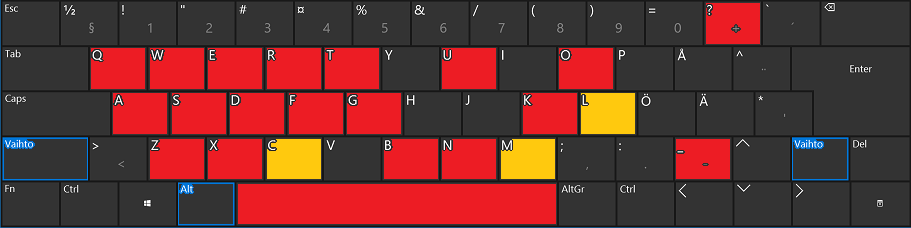
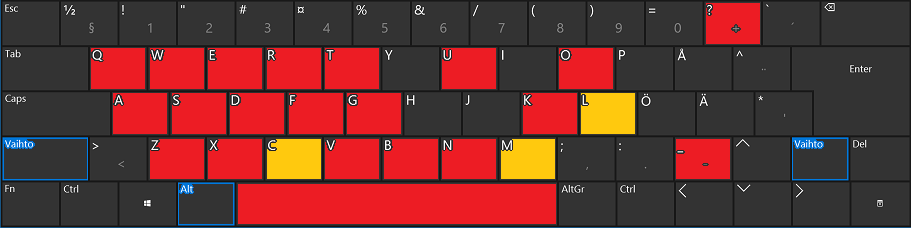
Allows upscaling.

Changed region(s): [[0.3381, 0.5833, 0.4303, 0.7982]]

diff --git a/frame.cpp b/frame.cpp
@@ -1,7 +1,7 @@
 #include "frame.h"
 #include "AppIcon.xpm"
 
-const wxString Peili::APP_VER = "2016.11.20";
+const wxString Peili::APP_VER = "2016.12.14";
 const wxString Peili::HOT_KEYS = "Shortcuts\nLMBx2 = Full screen\nMMB = Exit app\nRMB = Remove duplicates"
 "\nA = Previous file\nD = Next file\nE = Next random file\nS = Pause show\nW = Continue show"
 "\nSPACE = Show current file in folder\nB = Show status bar\nC = Count LMB clicks\nL = Change screenplay"
@@ -11,7 +11,7 @@ std::list<Nouto>::iterator fetch;
 std::mt19937 rng, rngk;
 std::unique_ptr<wxZipEntry> entry;
 int last_x1, last_y1, last_x2, last_y2, loading_pixs;
-bool filter_by_time, filter_by_size, filter_by_name, unzipping, rip_zip, gg_zip;
+bool filter_by_time, filter_by_size, filter_by_name, unzipping, rip_zip, gg_zip, upscale, queuing;
 uint64_t recent_depth = 14;
 wxString zip_name, trash, entry_name, unpack;
 wxBitmap unzipped;
@@ -154,7 +154,7 @@ void Peili::load_pix(wxTimerEvent &event)
 void Peili::draw_pixs(wxPaintEvent &event)
 {
     wxBufferedPaintDC dc(mirror);
-    if(clean_mirror)
+    if(clean_mirror && !queuing)
     {
         dc.SetBackground(*wxBLACK_BRUSH);
         dc.Clear();
@@ -169,6 +169,7 @@ void Peili::draw_pixs(wxPaintEvent &event)
             dc.SetBackgroundMode(wxPENSTYLE_SOLID);
             dc.DrawText(zip_name, 2, 2);
             dc.DrawText(entry_name, 2, 20);
+            queuing = false;
         }
         if(rip_zip)
         {
@@ -268,6 +269,7 @@ void Peili::keyboard(wxKeyEvent &event)
         {
             if(unzipping)
             {
+                if(queuing) return;
                 unzip_image(--cur_entry);
             }
             else
@@ -282,6 +284,7 @@ void Peili::keyboard(wxKeyEvent &event)
         {
             if(unzipping)
             {
+                if(queuing) return;
                 unzip_image(++cur_entry);
             }
             else
@@ -295,6 +298,7 @@ void Peili::keyboard(wxKeyEvent &event)
         {
             if(unzipping)
             {
+                if(queuing) return;
                 if(zip_list)
                 {
                     if(zip_list->GetCount())
@@ -322,6 +326,7 @@ void Peili::keyboard(wxKeyEvent &event)
         {
             if(unzipping)
             {
+                if(queuing) return;
                 if(zip_list)
                 {
                     if(zip_list->GetCount())
@@ -348,6 +353,7 @@ void Peili::keyboard(wxKeyEvent &event)
         {
             if(unzipping)
             {
+                if(queuing) return;
                 unzip_image(-1);
             }
             else
@@ -427,19 +433,7 @@ void Peili::keyboard(wxKeyEvent &event)
         }
         case 'X': // Delete ZIP file.
         {
-            if(!trash)
-            {
-                wxDirDialog dialog(this, "Choose folder for trash");
-                if(dialog.ShowModal() == wxID_OK)
-                {
-                    trash = dialog.GetPath() + "\\";
-                    wxFileConfig settings("Kuvastin", "Tapsa");
-                    settings.Write("Trash", trash);
-                }
-                else return;
-            }
-            rip_zip = true;
-            wxRenameFile(zips[cur_zip], trash + zips[cur_zip].AfterLast('\\'), false);
+            remove_zip();
             next_entry();
             return;
         }
@@ -501,6 +495,17 @@ void Peili::keyboard(wxKeyEvent &event)
             }
             else return;
         }
+        case 'V':
+        {
+            upscale = !upscale;
+            if(unzipping)
+            {
+                unzip_image(cur_entry);
+                return;
+            }
+            load_image();
+            break;
+        }
         case 'U':
         {
             zip_list = new wxListBox(panel, wxID_ANY, wxDefaultPosition, wxSize(200, -1));
@@ -509,6 +514,7 @@ void Peili::keyboard(wxKeyEvent &event)
 
             wxFileConfig settings("Kuvastin", "Tapsa");
             settings.Read("Trash", &trash);
+            settings.Read("Unpack", &unpack);
             wxFlexGridSizer *options_grid = new wxFlexGridSizer(2);
             wxStaticText *label1 = new wxStaticText(panel, wxID_ANY, " Path to zips ");
             wxDirPickerCtrl *path2zips = new wxDirPickerCtrl(panel, wxID_ANY, settings.Read("Path2zips", ""));
@@ -574,6 +580,7 @@ void Peili::keyboard(wxKeyEvent &event)
             zip_list->Bind(wxEVT_LISTBOX, [=](wxCommandEvent &event)
             {
                 cur_zip = event.GetSelection();
+                // Get entry name
                 unzip_image();
                 split_entry_name();
             });
@@ -606,6 +613,23 @@ void Peili::keyboard(wxKeyEvent &event)
     timer_queue.Start(0);
 }
 
+void Peili::remove_zip()
+{
+    if(!trash)
+    {
+        wxDirDialog dialog(this, "Choose folder for trash");
+        if(dialog.ShowModal() == wxID_OK)
+        {
+            trash = dialog.GetPath() + "\\";
+            wxFileConfig settings("Kuvastin", "Tapsa");
+            settings.Write("Trash", trash);
+        }
+        else return;
+    }
+    rip_zip = true;
+    wxRenameFile(zips[cur_zip], trash + zips[cur_zip].AfterLast('\\'), false);
+}
+
 void Peili::unzip_image(int random, wxString name)
 {
     cur_entry = 0;
@@ -616,53 +640,65 @@ void Peili::unzip_image(int random, wxString name)
         mirror->Refresh();
         return;
     }
-    wxFFileInputStream necessity(zips[cur_zip]);
-    wxZipInputStream zip(necessity);
-    int mirror_width, mirror_height;
-    mirror->GetClientSize(&mirror_width, &mirror_height);
-    entry.reset(zip.GetNextEntry());
-    if(name.Len())
+    bool remove = false;
     {
-        while(entry && name != entry->GetName())
+        wxFFileInputStream necessity(zips[cur_zip]);
+        wxZipInputStream zip(necessity);
+        int mirror_width, mirror_height;
+        mirror->GetClientSize(&mirror_width, &mirror_height);
+        entry.reset(zip.GetNextEntry());
+        if(name.Len())
         {
-            entry.reset(zip.GetNextEntry());
-            ++cur_entry;
+            while(entry && name != entry->GetName())
+            {
+                entry.reset(zip.GetNextEntry());
+                ++cur_entry;
+            }
         }
+        else if(random < 0)
+        {
+            int dart = rng() % zip.GetTotalEntries();
+            while(--dart > 0)
+            {
+                entry.reset(zip.GetNextEntry());
+                ++cur_entry;
+            }
+        }
+        else if(random > 0)
+        {
+            while(entry && random > cur_entry)
+            {
+                entry.reset(zip.GetNextEntry());
+                ++cur_entry;
+            }
+        }
+        if(entry)
+        {
+            wxImage pic(zip, wxBITMAP_TYPE_JPEG);
+            zip_name = zips[cur_zip].AfterLast('\\');
+            entry_name = entry->GetName();
+            int img_width = pic.GetWidth(), img_height = pic.GetHeight();
+            int leftover_width = mirror_width - img_width, leftover_height = mirror_height - img_height;
+            if(img_width < 640 || img_height < 640)
+            {
+                remove = true;
+            }
+            if(upscale || leftover_width < 0 || leftover_height < 0)
+            {
+                float prop = leftover_width < leftover_height ? (float) mirror_width / img_width : (float) mirror_height / img_height;
+                img_width *= prop;
+                img_height *= prop;
+                pic.Rescale(img_width, img_height, wxIMAGE_QUALITY_BICUBIC);
+            }
+            queuing = true;
+            unzipped = wxBitmap(pic);
+        }
+        else clean_mirror = true;
     }
-    else if(random < 0)
+    if(allow_del && remove)
     {
-        int dart = rng() % zip.GetTotalEntries();
-        while(--dart > 0)
-        {
-            entry.reset(zip.GetNextEntry());
-            ++cur_entry;
-        }
+        remove_zip();
     }
-    else if(random > 0)
-    {
-        while(entry && random > cur_entry)
-        {
-            entry.reset(zip.GetNextEntry());
-            ++cur_entry;
-        }
-    }
-    if(entry)
-    {
-        wxImage pic(zip, wxBITMAP_TYPE_JPEG);
-        zip_name = zips[cur_zip].AfterLast('\\');
-        entry_name = entry->GetName();
-        int img_width = pic.GetWidth(), img_height = pic.GetHeight();
-        int leftover_width = mirror_width - img_width, leftover_height = mirror_height - img_height;
-        if(leftover_width < 0 || leftover_height < 0)
-        {
-            float prop = leftover_width < leftover_height ? (float) mirror_width / img_width : (float) mirror_height / img_height;
-            img_width *= prop;
-            img_height *= prop;
-            pic.Rescale(img_width, img_height, wxIMAGE_QUALITY_BICUBIC);
-        }
-        unzipped = wxBitmap(pic);
-    }
-    else clean_mirror = true;
     next_entry();
 }
 
@@ -776,7 +812,7 @@ DONE_RIGHT:
             continue;
         }
         int leftover_width = mirror_width - img_width, leftover_height = mirror_height - img_height;
-        if(leftover_width < 0 || leftover_height < 0)
+        if(upscale || leftover_width < 0 || leftover_height < 0)
         {
             float prop = leftover_width < leftover_height ? (float) mirror_width / img_width : (float) mirror_height / img_height;
             img_width *= prop;

diff --git a/frame.h b/frame.h
@@ -60,6 +60,7 @@ public:
     inline void stop_flow();
     void unzip_image(int = 0, wxString = "");
     void next_entry();
+    void remove_zip();
 
     static const wxString APP_VER, HOT_KEYS;
 
